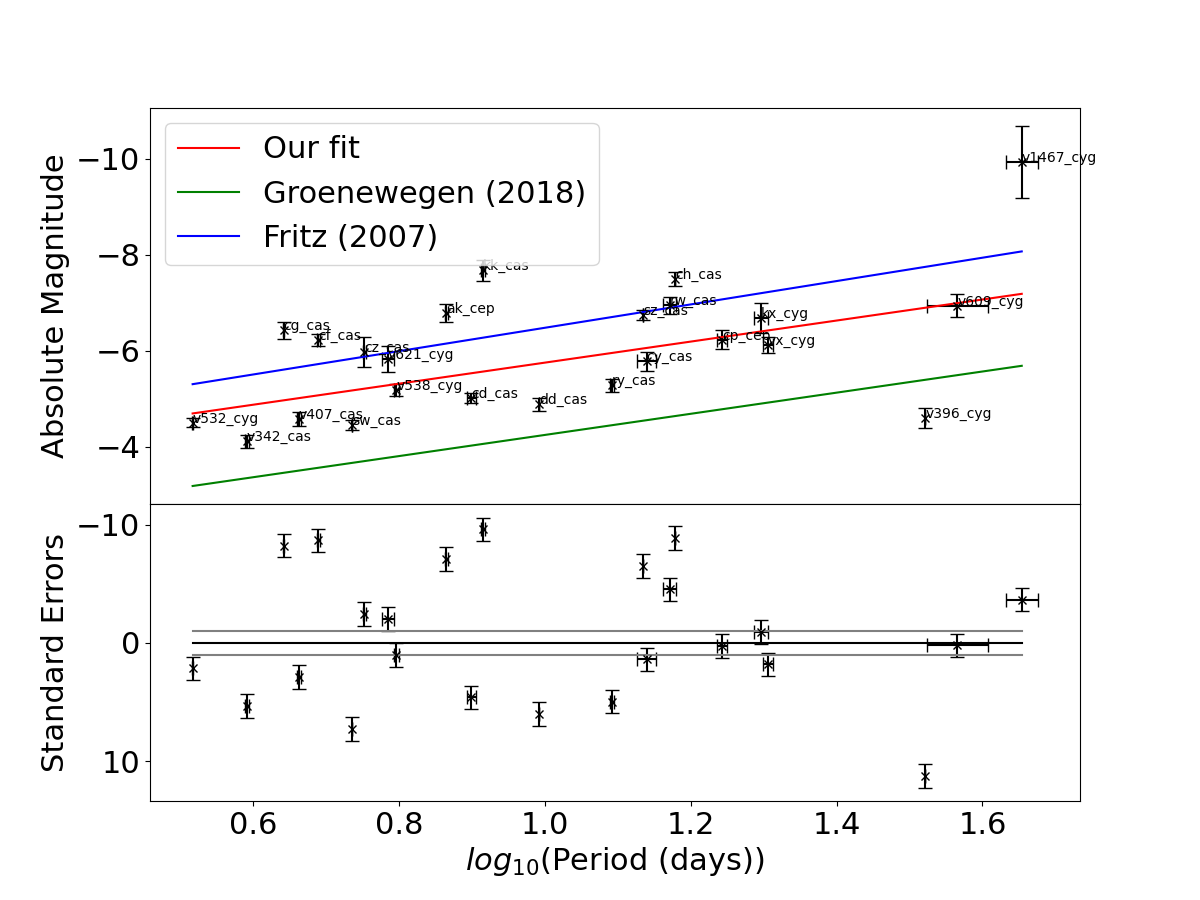
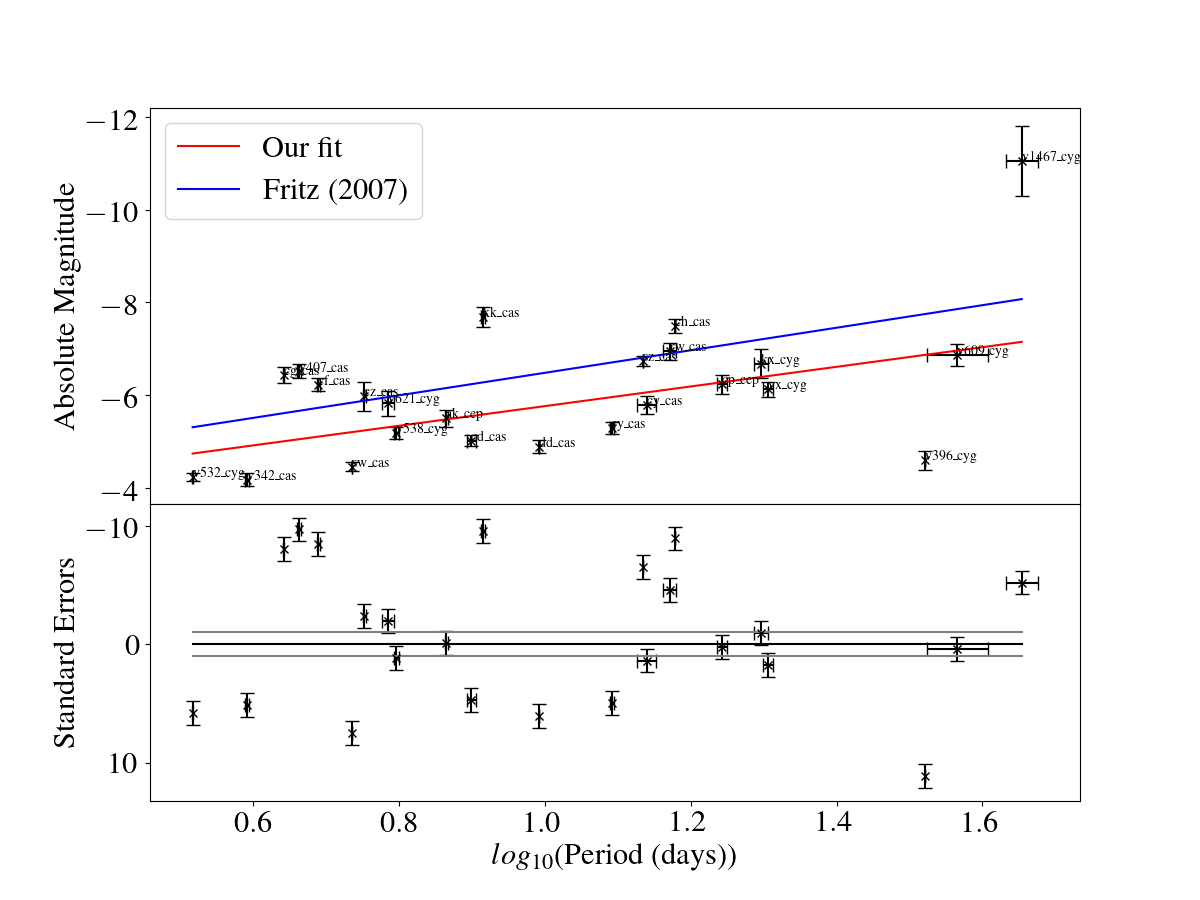
Some minor quality of life improvements

diff --git a/fourier_grid.py b/fourier_grid.py
@@ -7,7 +7,8 @@ def plot_fourier_grid(objs, periods,folded):
     f.write('')
     f.close()
     
-    
+    df = pd.read_csv("mcmaster.txt",delimiter=",")
+    averagemags = df["mean_mag"].to_numpy()
 
     rows=math.ceil(len(objs)/3) #obtain rows needed to generate 3xhowever many grid
     if rows>1: #Since plots < 3 are stored in a 1D array, need to handle plotting separately
@@ -38,7 +39,8 @@ def plot_fourier_grid(objs, periods,folded):
 
             period=periods[obj_counter]
 
-            mean_mag=np.mean(mags)
+            #mean_mag=np.mean(mags)
+            mean_mag = averagemags[obj_counter]
             mean_mag_error=np.std(mags)/(np.sqrt(len(mags)))
             amp1=1
             period=period
@@ -61,8 +63,8 @@ def plot_fourier_grid(objs, periods,folded):
             phi1_hi=2*np.pi
             phi2_lo=0
             phi2_hi=2*np.pi
-            disp_lo=np.mean(mags)-1
-            disp_hi=np.mean(mags)+1
+            disp_lo=mean_mag-1
+            disp_hi=mean_mag+1
 
             fourier_bounds=([disp_lo,amp1_lo,p_lo,phi1_lo,amp2_lo,phi2_lo],[disp_hi,amp1_hi,p_hi,phi1_hi,amp2_hi,phi2_hi])
 
@@ -73,7 +75,7 @@ def plot_fourier_grid(objs, periods,folded):
             fitted_period,fitted_error,reduced_chi,mean_mag,mean_mag_error=fourier_fitting(obj,period,2,5,False,False,20)
 
             f = open("periodmagdata.txt", "a")
-            f.write(str(mean_mag)+' '+str(mean_mag_error)+' '+str(fitted_period)+' '+str(fitted_error)+'\n')
+            f.write(str(popt[0])+' '+str(mean_mag_error)+' '+str(fitted_period)+' '+str(fitted_error)+'\n')
             f.close()
 
             details=obj+f'\nFitted Period: {fitted_period:.2f}+/-{fitted_error:.1g}\nReduced Chi Squared: {reduced_chi:.2f}'

diff --git a/p_l_relationship.py b/p_l_relationship.py
@@ -1,6 +1,10 @@
 from imports import *
 from data_handling import get_bv
 plt.rcParams.update({'font.size': 22})
+from matplotlib import rc
+#rc('font',**{'family':'sans-serif','sans-serif':['Helvetica']})
+rc('font',**{'family':'serif','serif':['Times']})
+rc('text', usetex=True)
 
 
 def get_periods():
@@ -443,9 +447,9 @@ def plot_pl(objs, abs_mags, abs_mags_errs, log_periods, log_periods_errs, diff_i
     
     axs[0].plot(log_periods, jacky, color='red', label='Our fit')
     
-    gaia_y = -2.2 * log_periods - 2.05
+    """gaia_y = -2.2 * log_periods - 2.05
     
-    axs[0].plot(log_periods, gaia_y, color='green', label='Groenewegen (2018)')
+    axs[0].plot(log_periods, gaia_y, color='green', label='Groenewegen (2018)')"""
     
     fritz_y = -2.43 * log_periods - 4.05
     
@@ -493,9 +497,9 @@ def plot_pl_rm(objs, abs_mags, abs_mags_errs, log_periods, log_periods_errs, dif
     
     axs[0].plot(log_periods, jacky, color='red', label='Our fit')
     
-    gaia_y = -2.2 * log_periods - 2.05
+    """gaia_y = -2.2 * log_periods - 2.05
     
-    axs[0].plot(log_periods, gaia_y, color='green', label='Groenewegen (2018)')
+    axs[0].plot(log_periods, gaia_y, color='green', label='Groenewegen (2018)')"""
     
     fritz_y = -2.43 * log_periods - 4.05
     

diff --git a/astrolabs.py b/astrolabs.py
@@ -30,7 +30,7 @@ for j in objs:
 
     
 
-#plot_fourier_grid(objs,periods,True)
+plot_fourier_grid(objs,periods,True)
 
 obj=input('Select Cepheid: ')
 
